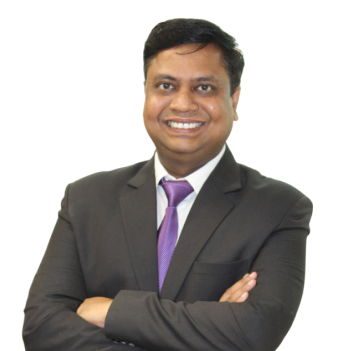
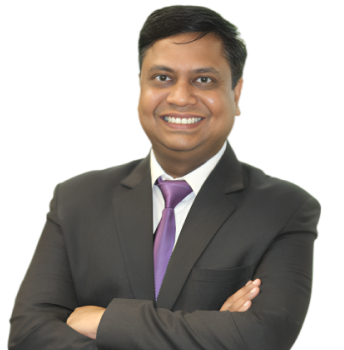
leader page updated

diff --git a/src/App.jsx b/src/App.jsx
@@ -17,10 +17,11 @@ import { useEffect } from "react";
 import Service from './pages/Service'
 import FinancialSolution from './pages/FinancialSolution'
 
-import image1 from './assets/images/About_Assets/NeerajKumar.png'
+import image1 from './assets/images/About_Assets/leader1.png'
 import image2 from './assets/images/About_Assets/leader2.png'
 import image3 from './assets/images/About_Assets/leader3.png'
 import image4 from './assets/images/About_Assets/leader4.png'
+import image5 from './assets/images/About_Assets/leader5.png'
 import LeadersTemplate from './components/core/LeadersTemplate'
 import Career from './pages/Career'
 
@@ -45,11 +46,11 @@ function App() {
         <Route path='/contact-us' element={<Contact />} />
 
 
-        <Route path='/neeraj-kumar' element={<LeadersTemplate image={image1} name={"NEERAJ KUMAR"} designation={"-CEO"} />} />
-        <Route path='/vikas-mishra' element={<LeadersTemplate image={image2} name={"VIKAS MISHRA"} designation={"-CFO"} />} />
-        <Route path='/ashish-gupta' element={<LeadersTemplate image={image3} name={"ASHISH GUPTA"} designation={"-Director Projects"} />} />
-        <Route path='/ravi-gupta' element={<LeadersTemplate image={image4} name={"RAVI GUPTA"} designation={"-Business Head"} />} />
-        <Route path='/hemraj-katariya' element={<LeadersTemplate image={image1} name={"HEMRAJ KATARIYA"} designation={"-CTO"} />} />
+        <Route path='/neeraj-kumar' element={<LeadersTemplate image={image1} name={"NEERAJ KUMAR"} designation={"-CEO"} property={"-right-75"} />} />
+        <Route path='/vikas-mishra' element={<LeadersTemplate image={image2} name={"VIKAS MISHRA"} designation={"-CFO"} property={"-right-70"}  />} />
+        <Route path='/ashish-gupta' element={<LeadersTemplate image={image3} name={"ASHISH GUPTA"} designation={"-Director Projects"} property={"-right-72"} />} />
+        <Route path='/ravi-gupta' element={<LeadersTemplate image={image4} name={"RAVI GUPTA"} designation={"-Business Head"} property={"-right-62"} />} />
+        <Route path='/hemraj-katariya' element={<LeadersTemplate image={image5} name={"HEMRAJ KATARIYA"} designation={"-CTO"} property={"-right-90"}  />} />
 
       </Routes>
     </div>

diff --git a/src/components/core/AboutPage/Leaders.jsx b/src/components/core/AboutPage/Leaders.jsx
@@ -2,16 +2,17 @@ import React from "react";
 import { motion } from "framer-motion";
 import HighlightText from "../../common/HighlightText";
 import bgImage from "../../../assets/images/Home_Assets/choose_us_bg.png";
-import leader from "../../../assets/images/About_Assets/leader.png";
+import leader1 from "../../../assets/images/About_Assets/leader1.png";
 import leader2 from "../../../assets/images/About_Assets/leader2.png";
 import leader3 from "../../../assets/images/About_Assets/leader3.png";
 import leader4 from "../../../assets/images/About_Assets/leader4.png";
+import leader5 from "../../../assets/images/About_Assets/leader5.png";
 import icon from "../../../assets/images/About_Assets/join_icon.png";
 import { Link } from "react-router-dom";
 
-const features = [
+const leaders = [
   {
-    image: leader,
+    image: leader1,
     name: "Neeraj Kumar",
     role: "CEO",
     link: "/neeraj-kumar",
@@ -35,7 +36,7 @@ const features = [
     link: "/ravi-gupta",
   },
   {
-    image: leader,
+    image: leader5,
     name: "Hemraj Katariya",
     role: "CTO",
     link: "/hemraj-katariya",
@@ -67,7 +68,7 @@ const Leaders = () => {
         viewport={{ once: false }}
         transition={{ staggerChildren: 0.2 }}
       >
-        {features.map((leader, index) => (
+        {leaders.map((leader, index) => (
           <motion.div
             key={index}
             className="bg-white rounded-xl shadow-lg p-6 text-center hover:shadow-2xl transition duration-300"
@@ -108,7 +109,7 @@ const Leaders = () => {
             <Link
               to="/careers"
               className="flex flex-col items-center gap-6 justify-center w-full h-full"
-              aria-label={`Go to ${leader.name}'s profile`}
+              aria-label={`Go to Join Our Team Page`}
             >
                 <img src={icon} alt="Join Our Team" className="w-30 h-20" loading="lazy" />
                 <h3 className="text-3xl font-bold text-white">Join Our Team</h3>

diff --git a/src/components/core/LeadersTemplate.jsx b/src/components/core/LeadersTemplate.jsx
@@ -1,14 +1,14 @@
 import React from 'react'
 
-const LeadersTemplate = ({image, name, designation}) => {
+const LeadersTemplate = ({image, name, designation, property}) => {
   return (
     <div className='w-11/12 h-full flex flex-col items-start justify-between mt-20 mx-auto gap-8'> 
         <div className='flex items-center'>
             <div className='bg-gray-300 relative'>
-                <img src={image} alt='Neeraj Kumar'></img>
+                <img src={image} alt={name}></img>
 
-                <div className='hidden lg:block'>
-                    <div className='flex flex-col bg-gradient-to-b from-[#5078B9] to-[#4BBB93] gap-3 py-10 rounded-lg px-8 absolute top-30 -right-75'>
+                <div className='hidden md:block'>
+                    <div className={`flex flex-col bg-gradient-to-b from-[#5078B9] to-[#4BBB93] gap-3 py-10 rounded-lg px-8 absolute top-30 ${property}`}>
                         <p className='font-semibold text-4xl text-white'>{name}</p>
                         <p className='text-white text-2xl'>{designation}</p>
                     </div>
